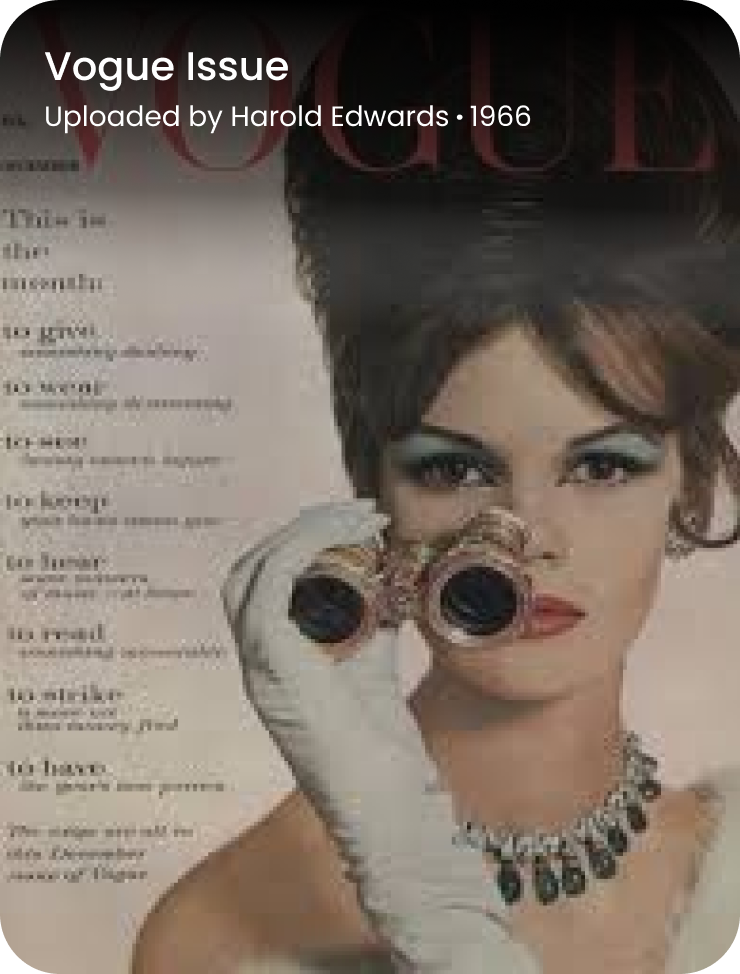
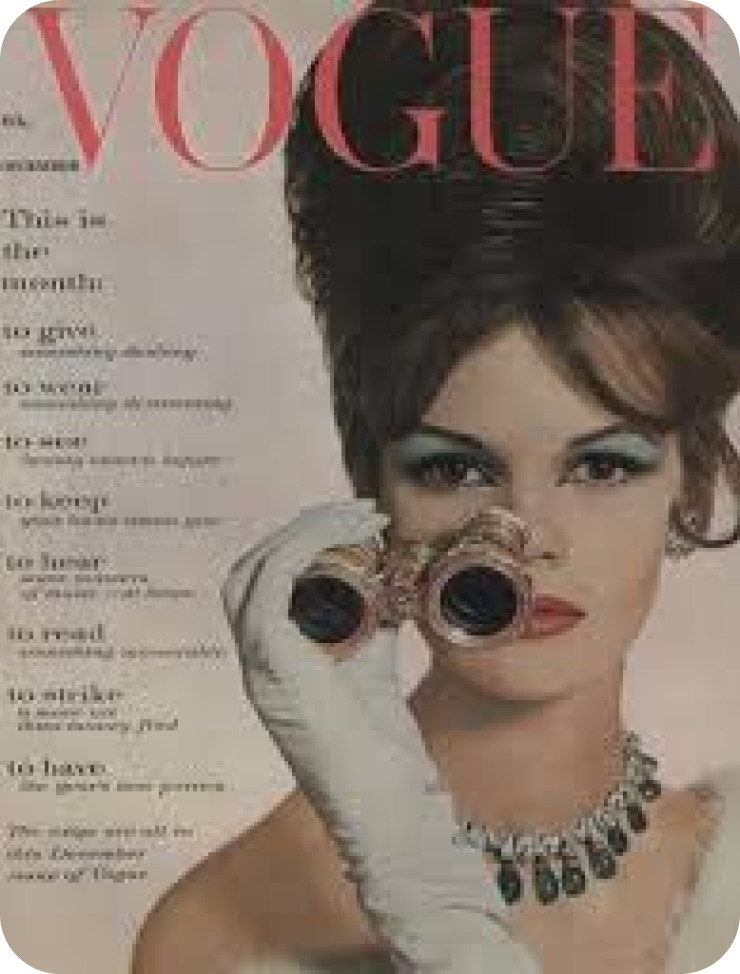
gallery working

Changed region(s): [[0.0, 0.0, 1.0, 0.2464]]

diff --git a/src/components/DemoGallery.js b/src/components/DemoGallery.js
@@ -27,26 +27,194 @@ const DemoGallery = () => {
   return (
     <div className="overall-image-holder">
       <div className="vertical-image-holder">
-        <img src={left1} alt="rightMacbook" className="top-image" />
-        <img src={left2} alt="rightMacbook" />
-        <img src={left3} alt="rightMacbook" />
-        <img src={left4} alt="rightMacbook" />
-        <img src={left5} alt="rightMacbook" />
+        <div className="gallery-image-container">
+          <img
+            src={left1}
+            alt="rightMacbook"
+            className="top-image gallery-image"
+          />
+          <div className="image-overlay">
+            <div className="gallery-heading">
+              Makeup Classes on Fifth Avenue
+            </div>
+            <div className="gallery-text">Uploaded by Aunt Patricia · 1940</div>
+          </div>
+        </div>
+        <div className="gallery-image-container">
+          <img
+            src={left2}
+            alt="rightMacbook"
+            className="top-image gallery-image"
+          />
+          <div className="image-overlay">
+            <div className="gallery-heading">Sorority Life in College</div>
+            <div className="gallery-text">Uploaded by Sarah Lewis · 1952</div>
+          </div>
+        </div>
+        <div className="gallery-image-container">
+          <img
+            src={left3}
+            alt="rightMacbook"
+            className="top-image gallery-image"
+          />
+          <div className="image-overlay">
+            <div className="gallery-heading">Television Journalist Career</div>
+            <div className="gallery-text">Uploaded by Aunt Patricia · 1960</div>
+          </div>
+        </div>
+        <div className="gallery-image-container">
+          <img
+            src={left4}
+            alt="rightMacbook"
+            className="top-image gallery-image"
+          />
+          <div className="image-overlay">
+            <div className="gallery-heading">Sarah Lawrence College</div>
+            <div className="gallery-text">Uploaded by Sarah Lewis · 1952</div>
+          </div>
+        </div>
+        <div className="gallery-image-container">
+          <img
+            src={left5}
+            alt="rightMacbook"
+            className="top-image gallery-image"
+          />
+          <div className="image-overlay">
+            <div className="gallery-heading">With Her Sorority Sisters</div>
+            <div className="gallery-text">Uploaded by Sarah Lewis · 1940</div>
+          </div>
+        </div>
       </div>
       <div className="vertical-image-holder">
-        <img src={mid1} alt="rightMacbook" className="top-image" />
-        <img src={mid2} alt="rightMacbook" />
-        <img src={mid3} alt="rightMacbook" />
-        <img src={mid4} alt="rightMacbook" />
-        <img src={mid5} alt="rightMacbook" />
-        <img src={mid6} alt="rightMacbook" />
+        <div className="gallery-image-container">
+          <img
+            src={mid1}
+            alt="rightMacbook"
+            className="top-image gallery-image"
+          />
+          <div className="image-overlay">
+            <div className="gallery-heading">Betty and Ida</div>
+            <div className="gallery-text">Uploaded by Aunt Patricia · 1938</div>
+          </div>
+        </div>
+        <div className="gallery-image-container">
+          <img
+            src={mid2}
+            alt="rightMacbook"
+            className="top-image gallery-image"
+          />
+          <div className="image-overlay">
+            <div className="gallery-heading">Ice Cream After Classes</div>
+            <div className="gallery-text">Uploaded by Aunt Patricia · 1941</div>
+          </div>
+        </div>
+        <div className="gallery-image-container">
+          <img
+            src={mid3}
+            alt="rightMacbook"
+            className="top-image gallery-image"
+          />
+          <div className="image-overlay">
+            <div className="gallery-heading">Writing Classes</div>
+            <div className="gallery-text">Uploaded by Aunt Patricia · 1946</div>
+          </div>
+        </div>
+        <div className="gallery-image-container">
+          <img
+            src={mid4}
+            alt="rightMacbook"
+            className="top-image gallery-image"
+          />
+          <div className="image-overlay">
+            <div className="gallery-heading">Speaking At A Conference</div>
+            <div className="gallery-text">
+              Uploaded by Harold Edwards · 1965
+            </div>
+          </div>
+        </div>
+        <div className="gallery-image-container">
+          <img
+            src={mid5}
+            alt="rightMacbook"
+            className="top-image gallery-image"
+          />
+          <div className="image-overlay">
+            <div className="gallery-heading">Acting in College</div>
+            <div className="gallery-text">Uploaded by Sarah Lewis · 1952</div>
+          </div>
+        </div>
+        <div className="gallery-image-container">
+          <img
+            src={mid6}
+            alt="rightMacbook"
+            className="top-image gallery-image"
+          />
+          <div className="image-overlay">
+            <div className="gallery-heading">Betty and Ida</div>
+            <div className="gallery-text">Uploaded by Aunt Patricia · 1940</div>
+          </div>
+        </div>
       </div>
       <div className="vertical-image-holder">
-        <img src={right1} alt="rightMacbook" className="top-image" />
-        <img src={right2} alt="rightMacbook" />
-        <img src={right3} alt="rightMacbook" />
-        <img src={right4} alt="rightMacbook" />
-        <img src={right5} alt="rightMacbook" />
+        <div className="gallery-image-container">
+          <img
+            src={right1}
+            alt="rightMacbook"
+            className="top-image gallery-image"
+          />
+          <div className="image-overlay">
+            <div className="gallery-heading">Gardening in Manhattan</div>
+            <div className="gallery-text">
+              Uploaded by Harold Edwards · 1973
+            </div>
+          </div>
+        </div>
+        <div className="gallery-image-container">
+          <img
+            src={right2}
+            alt="rightMacbook"
+            className="top-image gallery-image"
+          />
+          <div className="image-overlay">
+            <div className="gallery-heading">Sorority Life in College</div>
+            <div className="gallery-text">Uploaded by Sarah Lewis · 1952</div>
+          </div>
+        </div>
+        <div className="gallery-image-container">
+          <img
+            src={right3}
+            alt="rightMacbook"
+            className="top-image gallery-image"
+          />
+          <div className="image-overlay">
+            <div className="gallery-heading">Vogue Issue</div>
+            <div className="gallery-text">
+              Uploaded by Harold Edwards · 1966
+            </div>
+          </div>
+        </div>
+        <div className="gallery-image-container">
+          <img
+            src={right4}
+            alt="rightMacbook"
+            className="top-image gallery-image"
+          />
+          <div className="image-overlay">
+            <div className="gallery-heading">First, You Cry Newspaper</div>
+            <div className="gallery-text">Uploaded by Sarah Lewis · 1952</div>
+          </div>
+        </div>
+        <div className="gallery-image-container">
+          <img
+            src={right5}
+            alt="rightMacbook"
+            className="top-image gallery-image"
+          />
+          <div className="image-overlay">
+            <div className="gallery-heading">Singing Classes</div>
+            <div className="gallery-text">Uploaded by Aunt Patricia · 1945</div>
+          </div>
+        </div>
       </div>
     </div>
   );

diff --git a/src/components/Demo.css b/src/components/Demo.css
@@ -651,17 +651,53 @@ button {
   box-shadow: 0 2px 6px rgba(0, 0, 0, 0.3);
 }
 
-.custom-popup {
+/* DemoGallery.js styling */
+.gallery-image-container {
   position: relative;
+  width: 100%; /* Adjust based on your requirements */
 }
 
-.custom-popup::before {
-  content: "";
+.gallery-image {
+  display: block;
+  width: 100%;
+  height: auto;
+  border-radius: 15px;
+}
+
+.image-overlay {
   position: absolute;
-  top: 50%;
-  left: 100%;
-  margin-top: -10px;
-  border-width: 10px;
-  border-style: solid;
-  border-color: transparent transparent transparent white;
+  top: 0;
+  left: 0;
+  width: 100%;
+  height: 100px;
+  background-color: rgba(0, 0, 0, 0.8); /* Semi-transparent background */
+  border-top-left-radius: 30px;
+  border-top-right-radius: 30px;
+  opacity: 0;
+  transition: opacity 0.3s ease;
+  text-align: left;
+  display: flex;
+  flex-direction: column;
+  justify-content: center;
+}
+
+.gallery-image-container:hover .image-overlay {
+  opacity: 1;
+}
+
+.gallery-heading {
+  color: white;
+  font-family: Poppins, sans-serif;
+  font-size: 20px;
+  padding: 0px 10px;
+  font-weight: bold;
+  margin-left: 10px;
+}
+
+.gallery-text {
+  color: white;
+  font-family: Poppins, sans-serif;
+  font-size: 14px;
+  padding: 0px 10px;
+  margin-left: 10px;
 }
